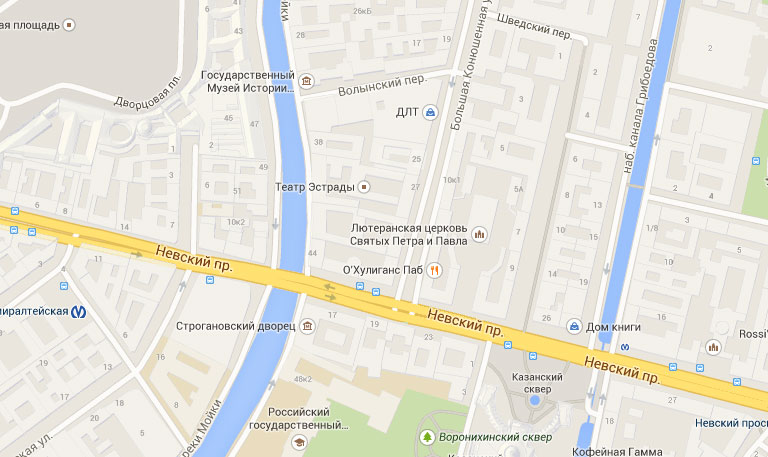
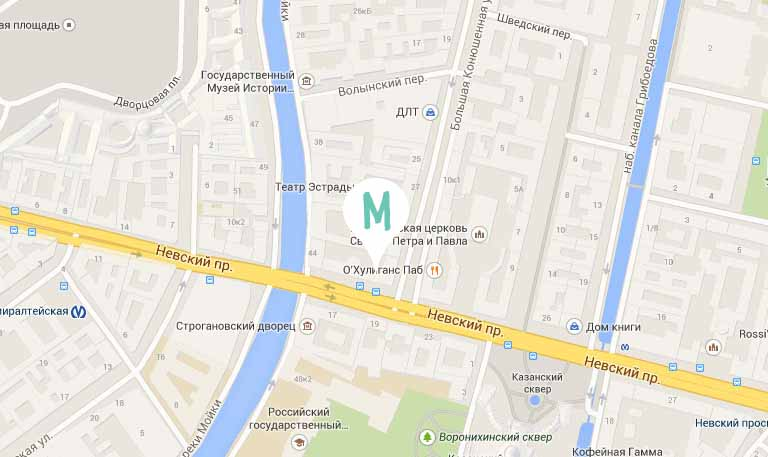
Переделал карты и добавил маркер

diff --git a/sass/blocks/index/contacts.scss b/sass/blocks/index/contacts.scss
@@ -56,16 +56,13 @@
 }
 
 .contacts__map {
-  width: 320px;
-  height: auto;
   margin: 0 auto 39px auto;
   background: #ece9e2 url("../img/map-fallback.jpg") -200px 0 no-repeat;
+}
 
-  iframe {
-    border: none;
-    height: 457px;
-    width: 320px;
-  }
+.contacts__map-container {
+  width: 320px;
+  height: 457px;
 }
 
 .contacts__btn {
@@ -73,6 +70,7 @@
   padding-top: 15px;
   width: 260px;
   margin: 0 auto;
+  box-sizing: border-box;
 }
 
 @media #{$tablet} {
@@ -113,15 +111,12 @@
   }
 
   .contacts__map {
-    width: 768px;
-    margin-bottom: 50px;
+    margin-bottom: 56px;
     background-position: 0 0;
+  }
 
-    iframe {
-      height: 457px;
-      width: 768px;
-      left: -50px;
-    }
+  .contacts__map-container {
+    width: 768px;
   }
 
   .contacts__btn {
@@ -168,16 +163,13 @@
 
   .contacts__map {
     position: absolute;
-    width: 525px;
     top: 0;
     right: 0;
     background-position: -100px 0;
+  }
 
-    iframe {
-      left: 0;
-      width: 525px;
-      height: 457px;
-    }
+  .contacts__map-container {
+    width: 525px;
   }
 
   .contacts__btn {

diff --git a/index.html b/index.html
@@ -300,11 +300,7 @@
         </div>
 
         <div class="contacts__map">
-          <iframe
-            frameborder="0"
-            allowfullscreen=""
-            src="https://www.google.com/maps/embed/v1/view?zoom=16&language=ru&center=59.9368,30.3215&key=AIzaSyCMqylW9AWrgHm6hhhNxUC1FXalrfpHP7I">
-          </iframe>
+          <div class="contacts__map-container"></div>
         </div>
 
         <a href="#" class="contacts__btn">Напишите нам</a>
@@ -383,5 +379,9 @@
 
 
   <script src="js/app.js"></script>
+  <script async defer
+          src="https://maps.googleapis.com/maps/api/js?key=AIzaSyAdj6V3T9HUvQaIj0ChMsYdyVuG9sGVf68&callback=initMap">
+  </script>
+  <script src="js/map.js"></script>
 </body>
 </html>

diff --git a/js/map.js b/js/map.js
@@ -1,0 +1,16 @@
+function initMap() {
+  var mapCenter = {lat: 59.9367, lng: 30.3215};
+  var mishka = {lat: 59.9363, lng: 30.3217};
+
+  var map = new google.maps.Map(document.querySelector(".contacts__map-container"), {
+    zoom: 16,
+    center: mapCenter
+  });
+
+  var marker = new google.maps.Marker({
+    position: mishka,
+    map: map,
+    title: "Мишка: Милые штуки ручной работы для дома",
+    icon: "../img/icon-map-pin.svg"
+  });
+}

diff --git a/form.html b/form.html
@@ -124,7 +124,7 @@
         </span>
       </button>
 
-      <ul class="main-menu__list main-menu__list--opened main-menu__list--nojs">
+      <ul class="main-menu__list main-menu__list--opened">
 
         <li class="main-menu__item main-menu__item--logo">
           <a class="main-menu__logo" href="index.html">

diff --git a/sass/blocks/common/page-footer.scss b/sass/blocks/common/page-footer.scss
@@ -32,6 +32,7 @@
   .page-footer__logo {
     width: 223px;
     display: block;
+    margin: 0;
   }
 
   .page-footer__logo-link {
